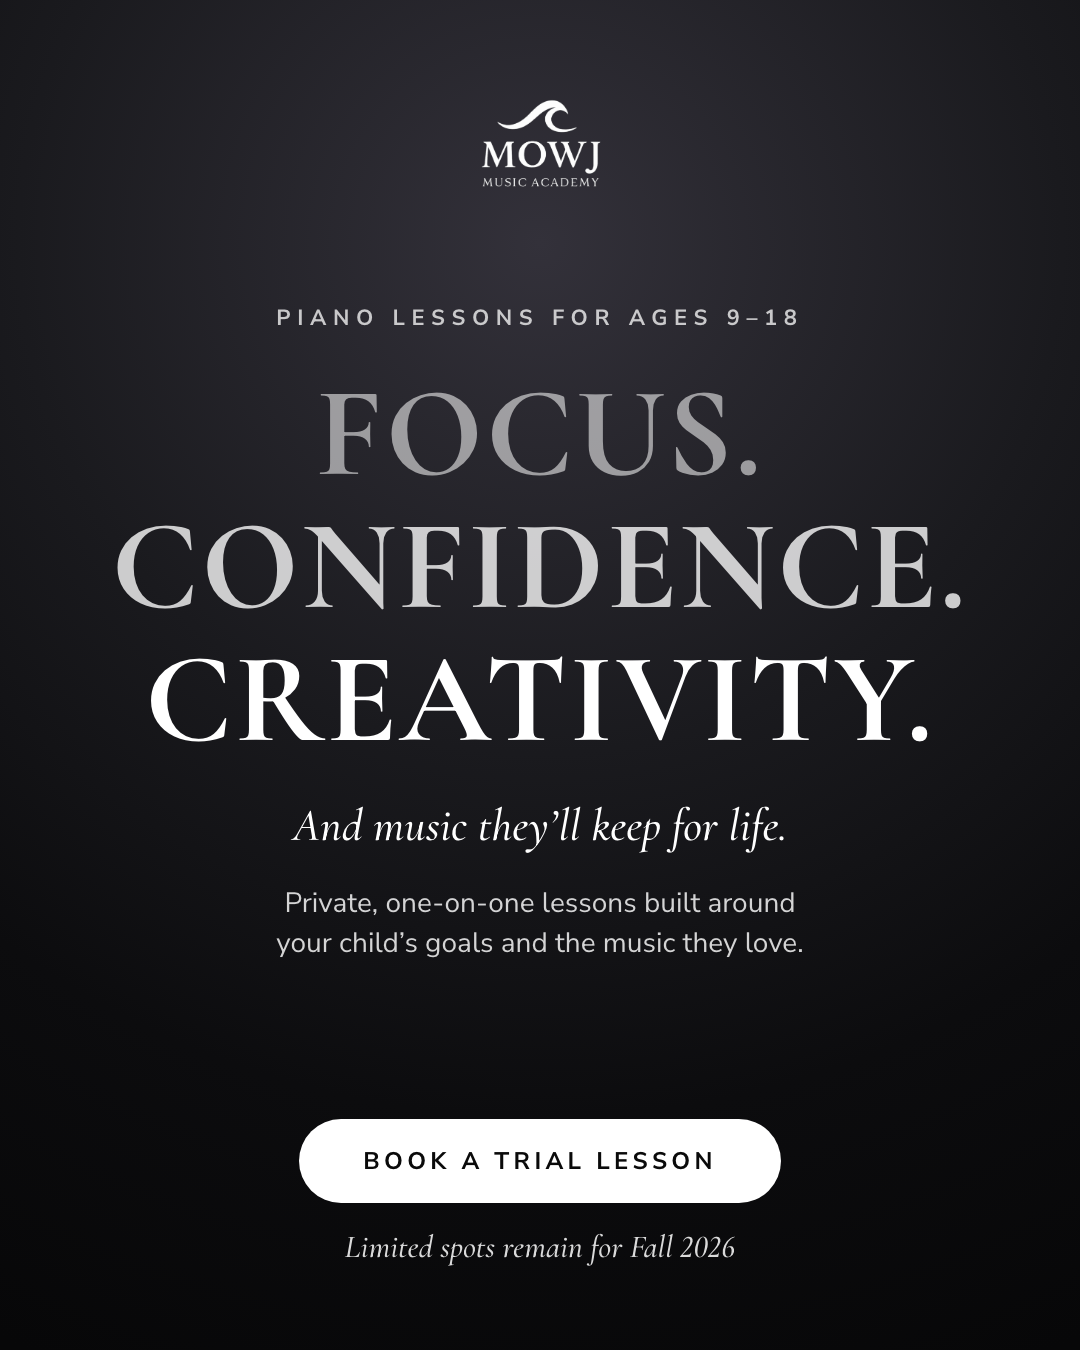
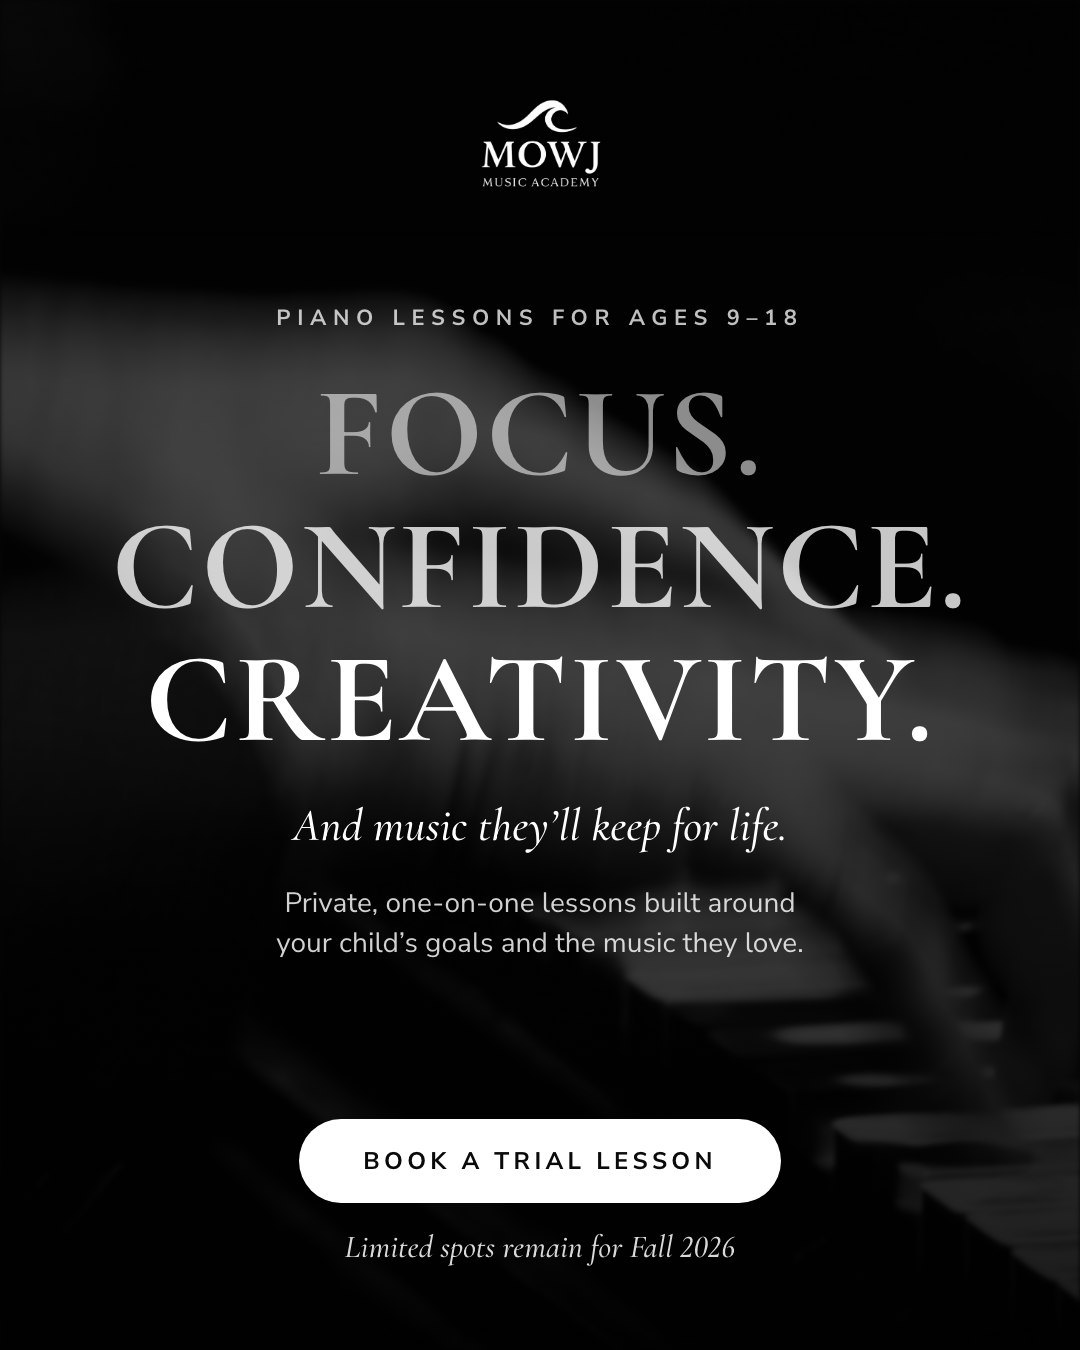
Put the blurred piano photo behind the parents benefits ad

diff --git a/social/09-ad-parents-benefits.html b/social/09-ad-parents-benefits.html
@@ -6,7 +6,9 @@
 <script>if (location.hash === "#story") document.documentElement.classList.add("story");</script>
 <link rel="stylesheet" href="base.css" />
 <style>
-  .content { position: relative; height: 100%; display: flex; flex-direction: column; align-items: center; padding: 96px 90px 84px; }
+  .photo { opacity: 0.6; object-position: 40% 50%; filter: blur(2px); }
+  .shade { position: absolute; inset: 0; background: linear-gradient(180deg, rgba(0,0,0,.55) 0%, rgba(0,0,0,.45) 35%, rgba(0,0,0,.55) 60%, rgba(0,0,0,.85) 100%); }
+  .content { position: relative; z-index: 2; height: 100%; display: flex; flex-direction: column; align-items: center; padding: 96px 90px 84px; }
   .logo { height: 96px; }
   .spacer { flex: 1; }
   .eyebrow { font-size: 22px; color: rgba(255,255,255,.75); }
@@ -24,7 +26,9 @@
 </style>
 </head>
 <body>
-  <div class="post hero-gradient">
+  <div class="post">
+    <img class="photo" src="assets/hands.jpg" alt="" />
+    <div class="shade"></div>
     <div class="content">
       <img class="logo" src="assets/logo-white.webp" alt="" />
       <div class="spacer"></div>
